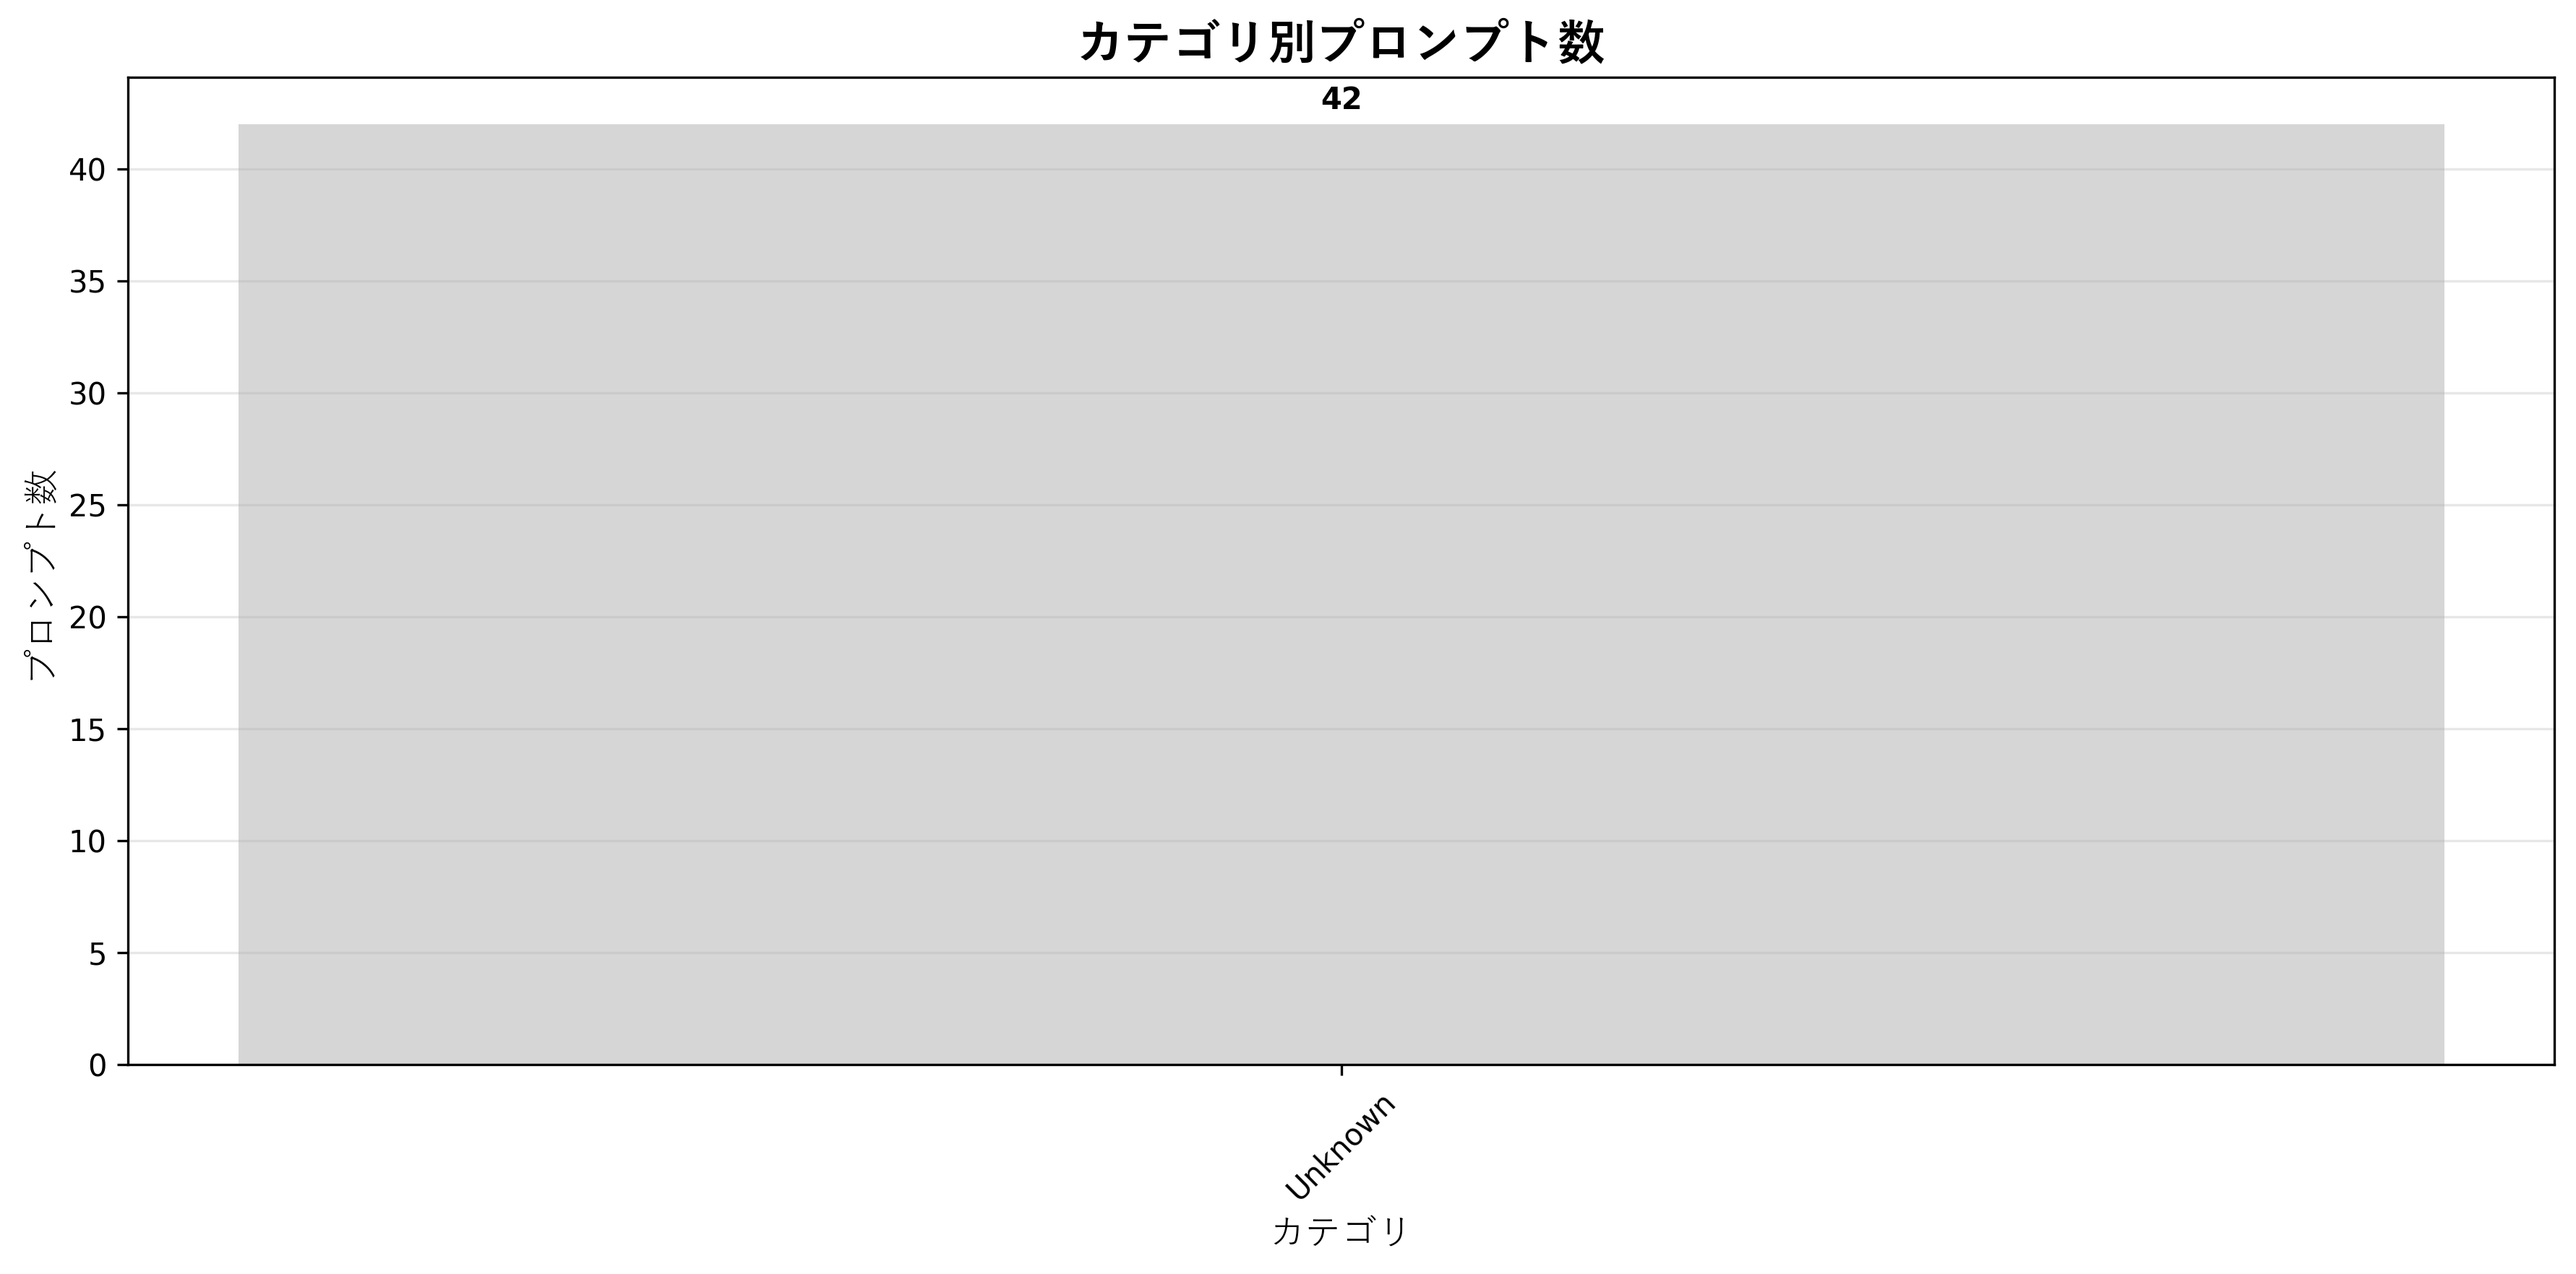
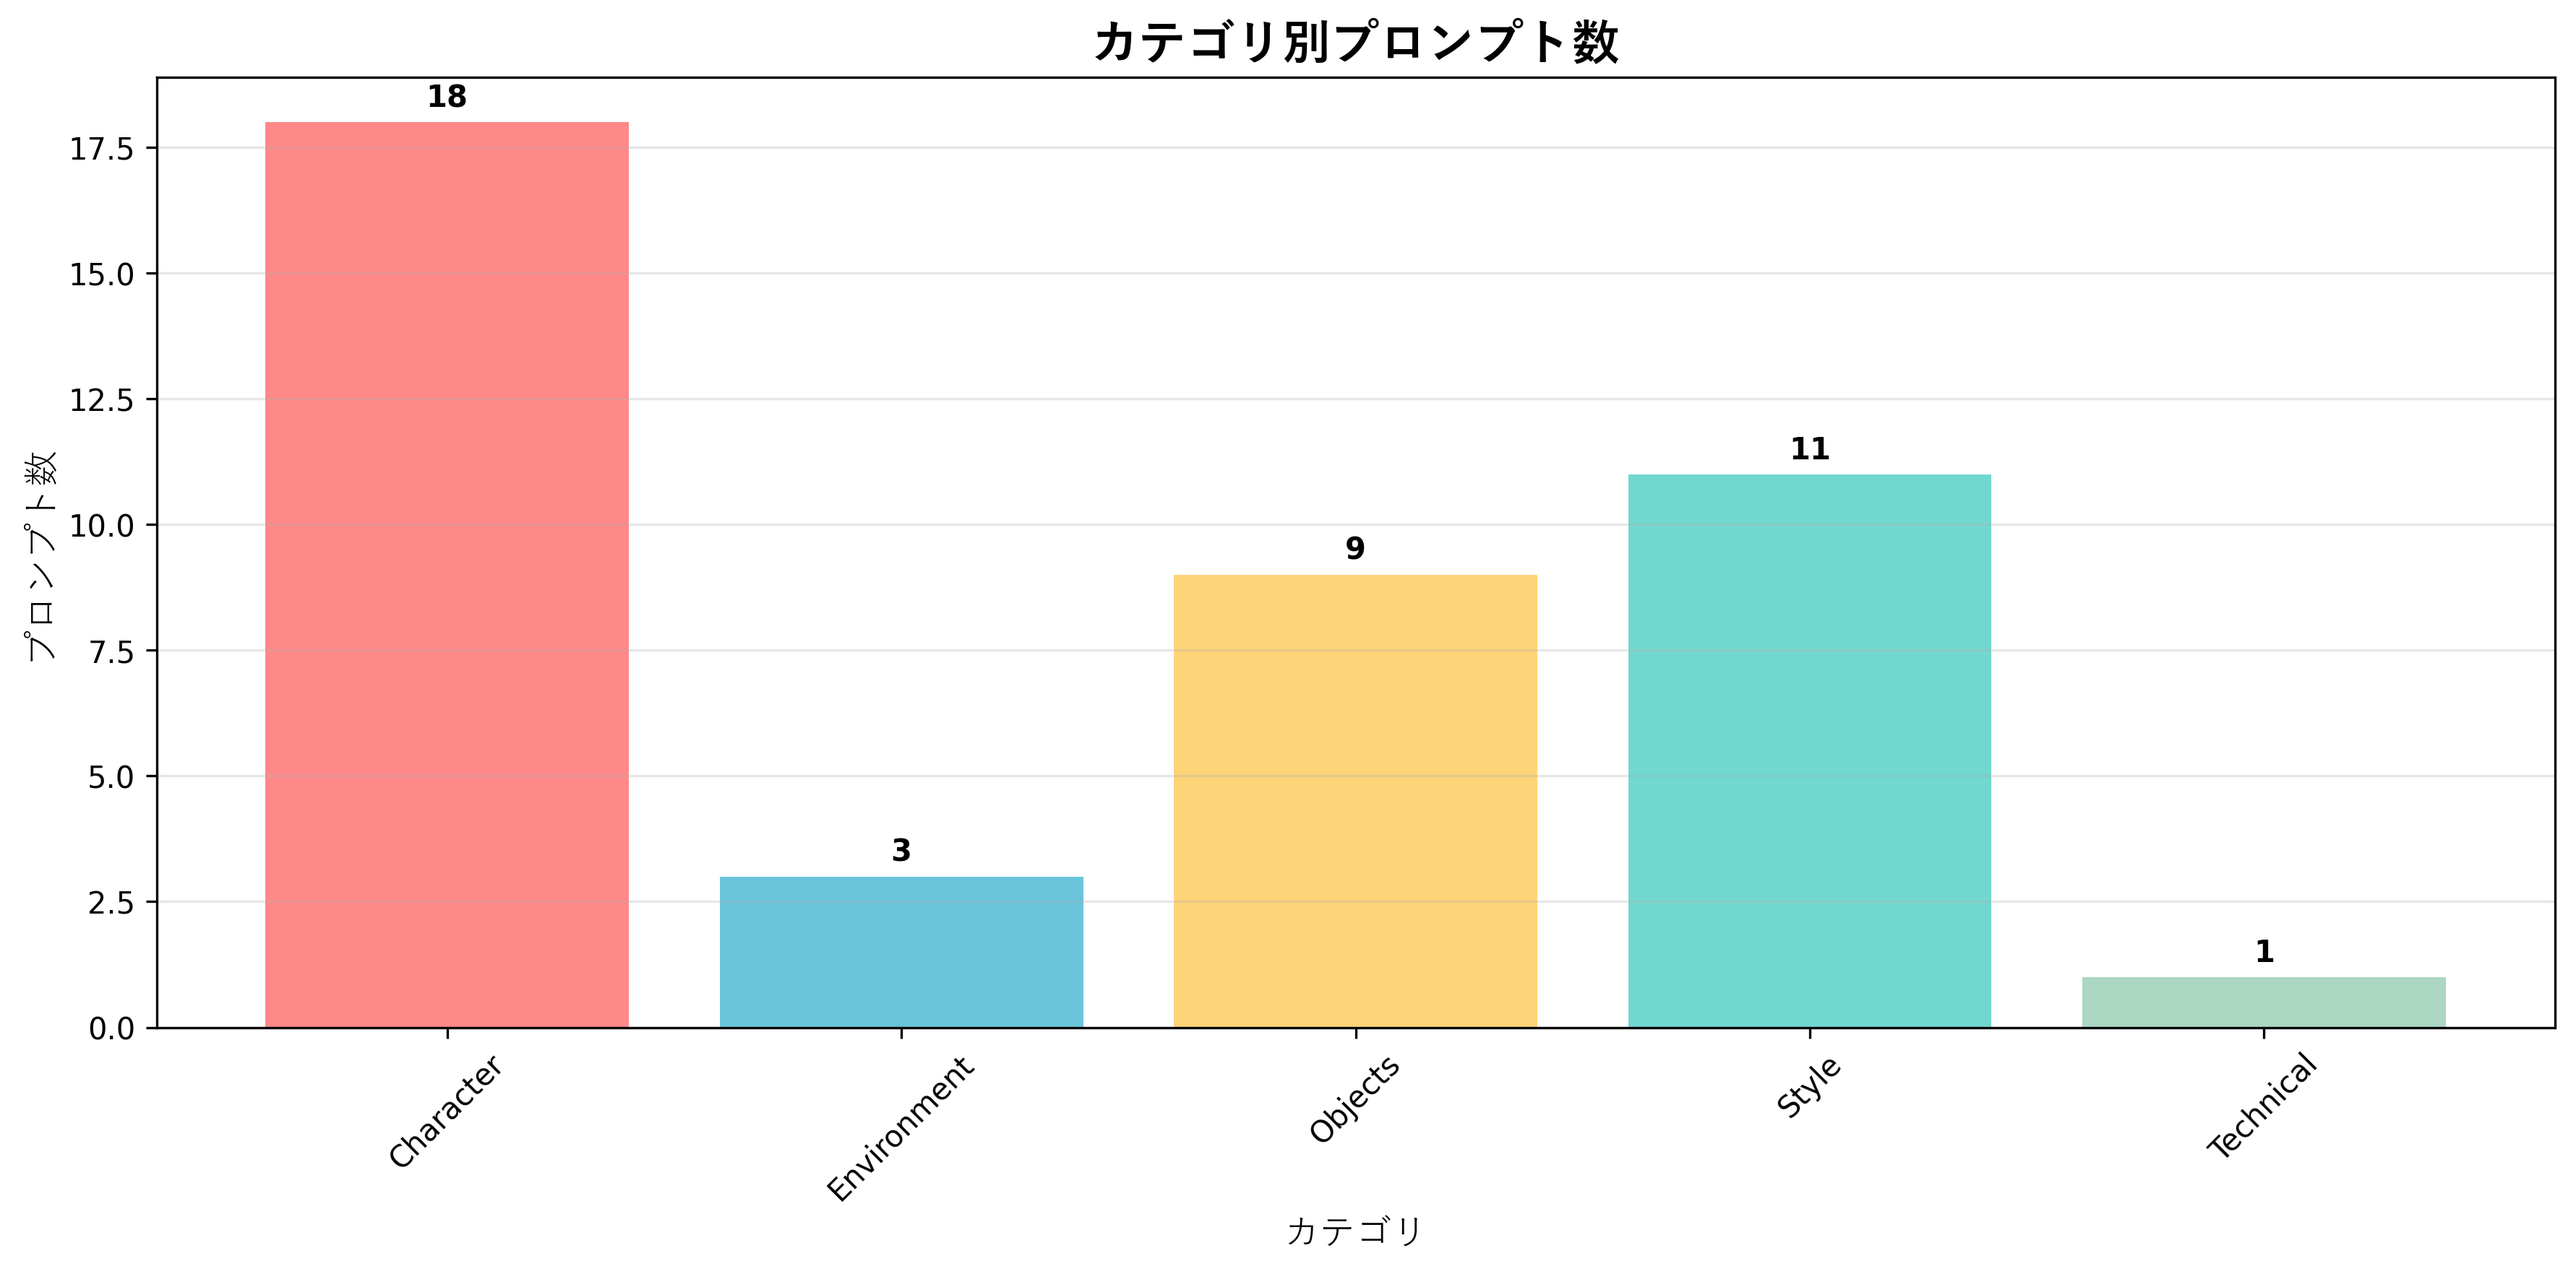
データ可視化モジュールの改善: カテゴリ分布と信頼度データの取得方法をデータベースからの統計に変更し、CSVエクスポート機能を強化

diff --git a/src/visualizer.py b/src/visualizer.py
@@ -7,6 +7,7 @@ import matplotlib.pyplot as plt
 import seaborn as sns
 import pandas as pd
 import numpy as np
+import sqlite3
 from pathlib import Path
 from typing import Dict, List, Tuple, Optional
 import logging
@@ -55,16 +56,18 @@ class DataVisualizer:
         }
 
     def get_category_distribution(self) -> Dict[str, int]:
-        """カテゴリ別分布データを取得"""
+        """カテゴリ別分布データを取得 - prompt_categoriesテーブルから正しくデータを取得"""
         try:
-            data = self.db_manager.get_all_prompts()
+            # データベースから既存の統計機能を使用
+            stats = self.db_manager.get_category_statistics()
             distribution = {}
 
-            for prompt_data in data:
-                category = prompt_data.get('category', 'Unknown')
-                distribution[category] = distribution.get(category, 0) + 1
+            # 全モデルの統計を合計
+            for model_stats in stats.values():
+                for category, count in model_stats.items():
+                    distribution[category] = distribution.get(category, 0) + count
 
-            logger.info(f"カテゴリ分布データ取得完了: {len(data)}件")
+            logger.info(f"カテゴリ分布データ取得完了: {sum(distribution.values())}件")
             return distribution
 
         except Exception as e:
@@ -72,14 +75,17 @@ class DataVisualizer:
             return {}
 
     def get_confidence_data(self) -> List[float]:
-        """信頼度データを取得"""
+        """信頼度データを取得 - prompt_categoriesテーブルから信頼度を取得"""
         try:
-            data = self.db_manager.get_all_prompts()
-            confidences = []
+            # SQLクエリで直接prompt_categoriesテーブルから信頼度取得
+            conn = sqlite3.connect(self.db_manager.db_path)
+            cursor = conn.cursor()
 
-            for prompt_data in data:
-                confidence = prompt_data.get('confidence', 0.0)
-                confidences.append(float(confidence))
+            cursor.execute('SELECT confidence FROM prompt_categories WHERE confidence IS NOT NULL')
+            rows = cursor.fetchall()
+
+            confidences = [float(row[0]) for row in rows if row[0] is not None]
+            conn.close()
 
             logger.info(f"信頼度データ取得完了: {len(confidences)}件")
             return confidences
@@ -260,23 +266,49 @@ class DataVisualizer:
             return {"error": str(e)}
 
     def export_data_csv(self, save_path: Optional[str] = None) -> str:
-        """データCSVエクスポート"""
+        """データCSVエクスポート - プロンプトとカテゴリ情報を結合して出力"""
         try:
-            data = self.db_manager.get_all_prompts()
+            # プロンプトデータを取得
+            prompts_data = self.db_manager.get_all_prompts()
 
-            if not data:
+            if not prompts_data:
                 logger.warning("エクスポートするデータがありません")
                 return ""
 
+            # カテゴリ情報を結合するため、SQLクエリで結合データを取得
+            conn = sqlite3.connect(self.db_manager.db_path)
+            cursor = conn.cursor()
+
+            cursor.execute('''
+                SELECT
+                    p.civitai_id,
+                    p.full_prompt,
+                    p.negative_prompt,
+                    p.quality_score,
+                    p.reaction_count,
+                    p.comment_count,
+                    p.download_count,
+                    p.model_name,
+                    p.collected_at,
+                    c.category,
+                    c.confidence
+                FROM civitai_prompts p
+                LEFT JOIN prompt_categories c ON p.id = c.prompt_id
+            ''')
+
+            rows = cursor.fetchall()
+            columns = [description[0] for description in cursor.description]
+
             # DataFrame作成
-            df = pd.DataFrame(data)
+            df = pd.DataFrame(rows, columns=columns)
+            conn.close()
 
             # 保存
             if not save_path:
-                save_path = self.output_dir / "prompt_data.csv"
+                save_path = self.output_dir / "prompt_data_with_categories.csv"
 
             df.to_csv(save_path, index=False, encoding='utf-8-sig')
-            logger.info(f"CSVエクスポート完了: {save_path} ({len(data)}件)")
+            logger.info(f"CSVエクスポート完了: {save_path} ({len(df)}件)")
 
             return str(save_path)
 
